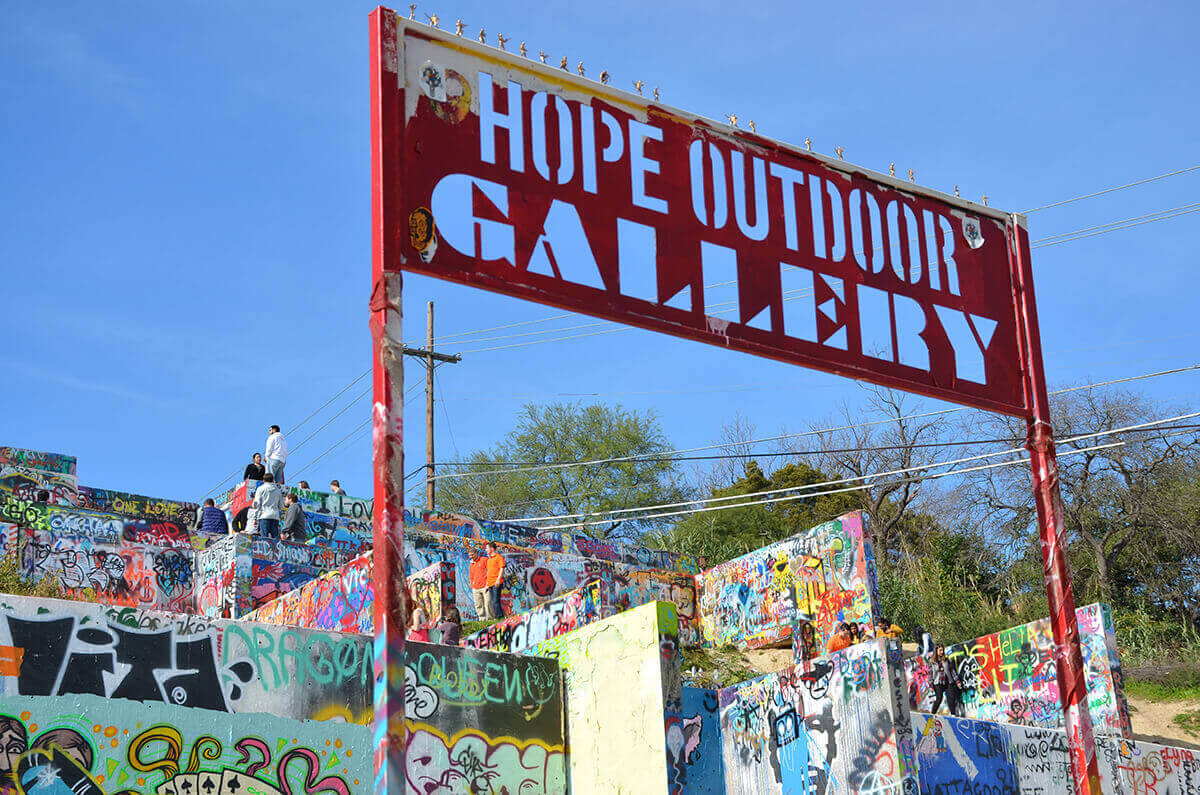
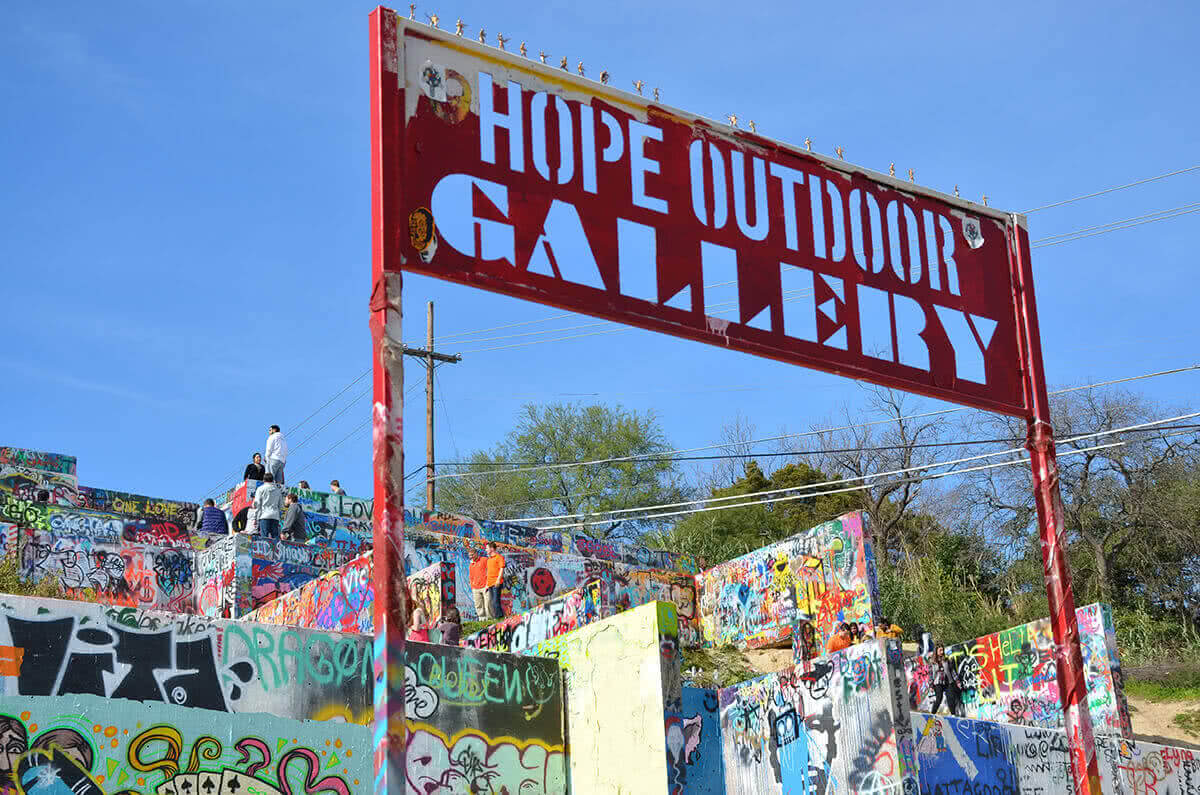
More compression and byte savings

diff --git a/dist/scripts/controllerBundle.min.js b/dist/scripts/controllerBundle.min.js
@@ -64,7 +64,7 @@
 				};
 
 				$scope.ghostButtonLink = {
-					"url": "https://jac21.github.io/AmateurPhotoGraphy/#/photos"
+					"url": "https://jac21.github.io/PhotoGraphy/"
 				};
 
 				// image data array
@@ -86,7 +86,7 @@
 					},
 					{
 						"caption": "Taken at Castillo San Cristóbal in San Juan, Puerto Rico",
-						"url": "dist/images/photographer/photos/DSC_1201.jpg",
+						"url": "dist/images/photographer/photos/DSC_1201.JPG",
 						"alt": "Pier in San Juan, Puerto Rico"
 					},
 					{
@@ -96,7 +96,7 @@
 					},
 					{
 						"caption": "Taken at the Mohawk in Austin, Texas (Band: Anamanaguchi)",
-						"url": "dist/images/photographer/photos/DSC_0631.jpg",
+						"url": "dist/images/photographer/photos/DSC_0631.JPG",
 						"alt": "Anamanaguchi at the Mohawk in Austin, Texas"
 					}
 				];
@@ -114,4 +114,4 @@
 		]);
 })();
 
[2 lines of base64/hex data omitted]

diff --git a/templates/photoshoots/vera-photoshoot.html b/templates/photoshoots/vera-photoshoot.html
@@ -13,31 +13,31 @@
 		</div>
 
 		<div class="col s12">
-			<img class="responsive-img z-depth-2 shoot-img" src="dist/images/photographer/photos/Shoots/Vera/DSC_1958.png" alt="Vera two"
+			<img class="responsive-img z-depth-2 shoot-img" src="dist/images/photographer/photos/Shoots/Vera/DSC_1958.jpg" alt="Vera two"
 			/>
 		</div>
 
 		<div class="col s12">
-			<img class="responsive-img z-depth-2 shoot-img" src="dist/images/photographer/photos/Shoots/Vera/DSC_1999.png" alt="Vera three"
+			<img class="responsive-img z-depth-2 shoot-img" src="dist/images/photographer/photos/Shoots/Vera/DSC_1999.jpg" alt="Vera three"
 			/>
 		</div>
 
 		<div class="col s12">
-			<img class="responsive-img z-depth-2 shoot-img" src="dist/images/photographer/photos/Shoots/Vera/DSC_2013.png" alt="Vera four"
+			<img class="responsive-img z-depth-2 shoot-img" src="dist/images/photographer/photos/Shoots/Vera/DSC_2013.jpg" alt="Vera four"
 			/>
 		</div>
 
 		<div class="col s12">
-			<img class="responsive-img z-depth-2 shoot-img" src="dist/images/photographer/photos/Shoots/Vera/DSC_2016.png" alt="Vera five"
+			<img class="responsive-img z-depth-2 shoot-img" src="dist/images/photographer/photos/Shoots/Vera/DSC_2016.jpg" alt="Vera five"
 			/>
 		</div>
 
 		<div class="col s12">
-			<img class="responsive-img z-depth-2 shoot-img" src="dist/images/photographer/photos/Shoots/Vera/DSC_2038.png" alt="Vera six"
+			<img class="responsive-img z-depth-2 shoot-img" src="dist/images/photographer/photos/Shoots/Vera/DSC_2038.jpg" alt="Vera six"
 			/>
 		</div>
 	</div>
-
+	
 	<div class="page-nav-options">
 		<div ng-click="backToTop()" class="scroll-top-link">Back to Top</div>
 	</div>

diff --git a/scripts/controllers/PhotographerController.js b/scripts/controllers/PhotographerController.js
@@ -15,7 +15,7 @@
 				};
 
 				$scope.ghostButtonLink = {
-					"url": "https://jac21.github.io/AmateurPhotoGraphy/#/photos"
+					"url": "https://jac21.github.io/PhotoGraphy/"
 				};
 
 				// image data array
@@ -37,7 +37,7 @@
 					},
 					{
 						"caption": "Taken at Castillo San Cristóbal in San Juan, Puerto Rico",
-						"url": "dist/images/photographer/photos/DSC_1201.jpg",
+						"url": "dist/images/photographer/photos/DSC_1201.JPG",
 						"alt": "Pier in San Juan, Puerto Rico"
 					},
 					{
@@ -47,7 +47,7 @@
 					},
 					{
 						"caption": "Taken at the Mohawk in Austin, Texas (Band: Anamanaguchi)",
-						"url": "dist/images/photographer/photos/DSC_0631.jpg",
+						"url": "dist/images/photographer/photos/DSC_0631.JPG",
 						"alt": "Anamanaguchi at the Mohawk in Austin, Texas"
 					}
 				];
